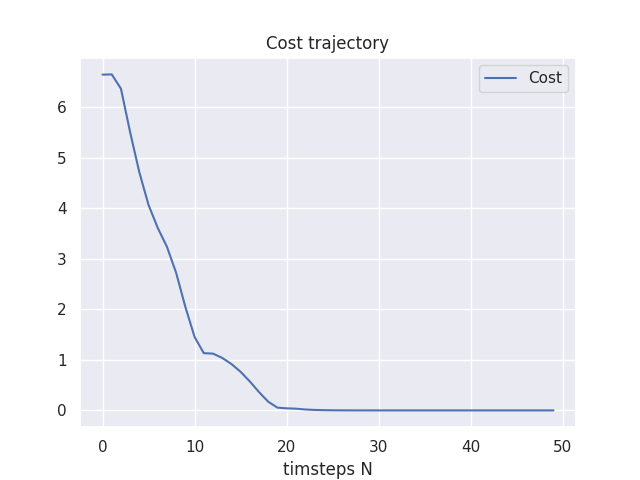
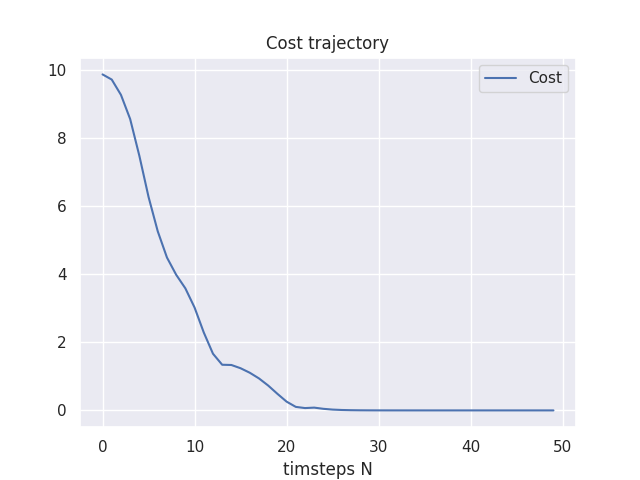
added complete MPC

diff --git a/src/noc_algo/mpc_noc.py b/src/noc_algo/mpc_noc.py
@@ -2,7 +2,6 @@ import numpy as np
 from casadi import *
 import math
 import matplotlib.pyplot as plt
-from pendulum_dynamics import PendulumDynamics
 from pendulum import PendulumEnv
 import time
 import importlib.util
@@ -33,8 +32,9 @@ def extractSolFromNlpSolver(res):
     print('thdot_opt shape:', {thdot_opt.shape})
 
     cost = np.array(res["f"])
+    loss = cost[0][0]
     g = np.array(res["g"])
-    print('cost: ', cost[0][0])
+    print('cost: ', loss)
     print('g shape:', {g.shape})
     g_1 = []
     g_2 = []
@@ -42,30 +42,19 @@ def extractSolFromNlpSolver(res):
         g_1.append(g[i])
         g_2.append(g[i+1])
 
-    return u_opt, th_opt, thdot_opt, g_1, g_2
+    return u_opt, th_opt, thdot_opt, g_1, g_2, loss
 
-if __name__ == '__main__':
+
+def simultaneous_opt(x0bar,L, pend_dyn, N , gamma):
     #parameters
-    nx = 2          # state dimension
-    nu = 1          # control dimension
-    N = 50         # horizon length
-    N_rk4 = 10      # RK4 steps
-    dt = 0.1        #delta time s
-    gamma = 0.99
-    w0 = 0.1
-    L = 0
-
-    high = np.array([np.pi, 1])
-    x0bar = np.random.uniform(low=-high, high=high)
-    print("initial state:", x0bar)
-    #x0bar = [np.pi, 0]    # initial state
+    nx = pend_dyn.nx       # state dimension
+    nu = pend_dyn.nu        # control dimension
+    w0 = pend_dyn.w0
+    max_speed = pend_dyn.max_speed
+    max_torque = pend_dyn.max_torque
 
     x = MX.sym('x',nx,1)
     u = MX.sym('u',nu,1)
-
-    pend_dyn = PendulumDynamics(N_rk4 = N_rk4, DT = dt)
-    max_speed = pend_dyn.max_speed
-    max_torque = pend_dyn.max_torque
     x_next = pend_dyn.simulate_next_state(x, u)
     print('type x_next:', type(x_next))
     # integrator
@@ -76,24 +65,18 @@ if __name__ == '__main__':
     # NLP formulation
     # collect all decision variables in w
     g = []
-    # full state vector w: [u0, theta1, omega1, ....u49, theta50, omega50]
-    w = []
-    # constraint on the entire state vector
-    ubw = []
+    w = [] # full state vector w: [u0, theta1, omega1, ....u49, theta50, omega50]
+    ubw = []  # constraint on the entire state vector
     X_k = x0bar
-    
 
     for i in range(N):
         U_name = 'U_' + str(i)
         U_k = MX.sym(U_name, nu, 1)
         # L +=  X_k[0]**2 + 0.1*(X_k[1])**2 + 0.001*U_k**2
         L = X_k[0]**2 + 0.1*(X_k[1])**2 + 0.001*U_k**2 + gamma*L
-
         X_next = F(X_k, U_k)
-
         X_name = 'X_' + str(i+1)
         X_k = MX.sym(X_name, nx, 1)
-
         ubw = vertcat(ubw, max_torque, inf, max_speed)
         w = vertcat(w, U_k, X_k)
         g = vertcat(g, X_next - X_k)
@@ -105,7 +88,9 @@ if __name__ == '__main__':
     nlp = {"x": w,
            "f": L,
            "g": g}
-    solver = nlpsol('solver','ipopt', nlp)
+    opts_dict = {}
+    opts_dict["ipopt.print_level"] = 0
+    solver = nlpsol('solver','ipopt', nlp, opts_dict)
 
     arg = {}
     arg["x0"] = w0
@@ -116,23 +101,40 @@ if __name__ == '__main__':
 
     # Solve the problem
     res = solver(**arg)
+    return extractSolFromNlpSolver(res)
 
-    # visualise solution
-    u_opt, th_opt, thdot_opt, g_1 , g_2 = extractSolFromNlpSolver(res)
+if __name__ == '__main__':
+    
+    N_rk4 = 10      # RK4 steps
+    dt = 0.1        #delta time s
+    N = 50         # horizon length
+    gamma = 0.99
 
-    vis.plot_state_trajectory(th_opt, thdot_opt)
-    vis.plot_control_trajectory(u_opt)
-    vis.plot_dynamics(g_1, g_2)
-
-    agg_cost = 0
     costs = []
+    u_opt_f = []
+    th_opt_f = [] 
+    thdot_opt_f = [] 
+    g_1_f = []
+    g_2_f = []
+
     with contextlib.closing(PendulumEnv(N_rk4 = N_rk4, DT = dt)) as env:
-        s = env.reset(x0bar)
+        s = env.reset(fixed = True) #fixed start at pi,0
+        x0bar = np.array(s)
+        c = 0
         for i in range(N):
             env.render()
-            s, c, d, _ = env.step(u_opt[i])
-            agg_cost = c + gamma*agg_cost
-            costs.append(c)
-            time.sleep(dt)
-    # print("cost_rl: ", agg_cost)
+            u_opt, th_opt, thdot_opt, g_1 , g_2, l = simultaneous_opt(s ,c ,env, N-i, gamma)
+            s, c, d, _ = env.step(u_opt[0], noise = False) #state noise
+            u_opt_f.append(u_opt[0])
+            th_opt_f.append(th_opt[0])
+            thdot_opt_f.append(thdot_opt[0])
+            costs.append(c)  #gamma is implicit
+            g_1_f.append(g_1[0])
+            g_2_f.append(g_2[0])
+
+        # visualise solution
+    print("initial state:", x0bar)
     vis.plot_costs(costs)
+    vis.plot_state_trajectory(th_opt_f, thdot_opt_f)
+    vis.plot_control_trajectory(u_opt_f)
+    vis.plot_dynamics(g_1_f, g_2_f)

diff --git a/src/noc_algo/pendulum.py b/src/noc_algo/pendulum.py
@@ -3,6 +3,7 @@ from gym import spaces
 from gym.utils import seeding
 import numpy as np
 from os import path
+from casadi import *
 
 
 class PendulumEnv(gym.Env):
@@ -18,6 +19,9 @@ class PendulumEnv(gym.Env):
         self.g = g
         self.m = 1.
         self.l = 1.
+        self.nx = 2
+        self.nu = 1
+        self.w0 = 0.1
         self.viewer = None
 
         self.t1 = -3.0*self.g/(2*self.l)
@@ -50,7 +54,7 @@ class PendulumEnv(gym.Env):
         dyn_eqn = np.array([omega, self.t1 * np.sin(theta) + self.t2*u])
         return dyn_eqn
 
-    def rk4step(self, x, u, h):
+    def rk4step(self, x, u, h, noise):
         # % one rk4 step
         # % inputs:
         # %  x             initial state of integration
@@ -65,17 +69,20 @@ class PendulumEnv(gym.Env):
         x_next = x + h/6*(k1 + 2*k2 + 2*k3 + k4)
 
         # a_max = np.array([np.pi, self.max_speed])
-        # x_next[1] += np.random.normal(loc=0.0, scale=0.01, size=None)
+        
         # x_next = np.clip(x_next, a_min = -a_max, a_max = a_max)
 
+        if noise:
+            x_next[1] += np.random.normal(loc=0.0, scale=0.01, size=None)
         return x_next
 
-    def step(self,u):
+    def step(self,u, noise):
         th, thdot = self.state
 
         dt = self.dt
 
-        u = np.clip(u, -self.max_torque, self.max_torque)[0]
+        # u = np.clip(u, -self.max_torque, self.max_torque)[0]
+        u = np.array(u)[0]
         self.last_u = u # for rendering
         #costs = angle_normalize(th)**2 + 0.1*thdot**2 + 0.001*(u**2)
         costs = th**2 + 0.1*thdot**2 + 0.001*(u**2)
@@ -88,18 +95,29 @@ class PendulumEnv(gym.Env):
         else: #rk4 integrator
             h = dt/self.N_rk4
             for i in range(self.N_rk4):
-                self.state = self.rk4step(self.state, u, h)
+                self.state = self.rk4step(self.state, u, h, noise)
 
         # return self._get_obs(), -costs, False, {}
         return self._get_obs(), costs, False, {}
 
-    def reset(self, to_state):
+    def reset(self, fixed):
         # high = np.array([np.pi, 1])
         # self.state = self.np_random.uniform(low=-high, high=high)
         # self.last_u = None
-        self.state = np.array(to_state)
-        self.last_u = None
-        return self._get_obs()
+
+
+        # self.state = np.array(to_state)
+        # self.last_u = None
+        # return self._get_obs()
+        if fixed:
+            self.state = np.array([np.pi, 0])
+            self.last_u = None
+            return self._get_obs()
+        else:
+            high = np.array([np.pi, 1])
+            self.state = self.np_random.uniform(low=-high, high=high)
+            self.last_u = None
+            return self._get_obs()
 
     def _get_obs(self):
         theta, thetadot = self.state
@@ -137,6 +155,40 @@ class PendulumEnv(gym.Env):
             self.viewer.close()
             self.viewer = None
 
+    def dynamics_simulate(self, x, u):
+        theta = x[0]
+        omega = x[1]
+        return vertcat(omega, self.t1 * sin(theta) + self.t2*u)
+
+    def rk4step_simulate(self, x, u, h):
+        # % one rk4 step
+        # % inputs:
+        # %  x             initial state of integration
+        # %  u             control, kept constant over integration
+        # %  h             time step of integration
+        # % output:
+        # %  x_next        state after one rk4 step
+        k1 = self.dynamics_simulate(x, u)
+        k2 = self.dynamics_simulate(x+h/2*k1, u)
+        k3 = self.dynamics_simulate(x+h/2*k2, u)
+        k4 = self.dynamics_simulate(x+h*k3, u)
+        x_next = x + h/6*(k1 + 2*k2 + 2*k3 + k4)
+        return x_next
+
+    def simulate_next_state(self, x, u):
+        # newthdot = thdot + (self.t1 * np.sin(th + np.pi) + self.t2*u) * self.dt
+        if (self.kinematics_integrator == 'implicit-euler'):
+            theta = x[0]
+            omega = x[1]
+            new_omega = omega + (self.t1 * sin(theta) + self.t2*u) * self.dt
+            new_theta = theta + new_omega*self.dt
+            return vertcat(new_theta, new_omega)
+
+        else: #rk4 integrator
+            h = self.dt/self.N_rk4
+            for i in range(self.N_rk4):
+                x = self.rk4step_simulate(x, u, h)
+        return x
 
 def angle_normalize(x):
     return (((x+np.pi) % (2*np.pi)) - np.pi)

diff --git a/src/rl_algo/run_ddpg_continuous.py b/src/rl_algo/run_ddpg_continuous.py
@@ -8,6 +8,7 @@ from ddpg_continuous import DDPG
 from utils import Visualizer
 from utils import reward_carrot_stick, reward_no_fast_rotation, reward_laplacian
 from utils import reward_func_map
+import time
 
 if __name__ == '__main__':
 
@@ -61,10 +62,11 @@ if __name__ == '__main__':
     if render_flag:
         with contextlib.closing(PendulumEnv()) as env:
             for _ in range(4):
-                s = env.reset()
+                s = env.reset(fixed = True)  #change to false for random init
                 for _ in range(500):
                     env.render()
                     a = ddpg.get_action(s, is_testing=True)
                     s, _, d, _ = env.step(a)
+                    time.sleep(env.dt)
                     if d:
                         break

diff --git a/src/rl_algo/mypendulum.py b/src/rl_algo/mypendulum.py
@@ -100,11 +100,17 @@ class PendulumEnv(gym.Env):
 
         return self._get_obs(), -costs, False, {}
 
-    def reset(self):
-        high = np.array([np.pi, 1])
-        self.state = self.np_random.uniform(low=-high, high=high)
-        self.last_u = None
-        return self._get_obs()
+    def reset(self, fixed):
+
+        if fixed:
+            self.state = np.array([np.pi, 0])
+            self.last_u = None
+            return self._get_obs()
+        else:
+            high = np.array([np.pi, 1])
+            self.state = self.np_random.uniform(low=-high, high=high)
+            self.last_u = None
+            return self._get_obs()
 
     def _get_obs(self):
         theta, thetadot = self.state
